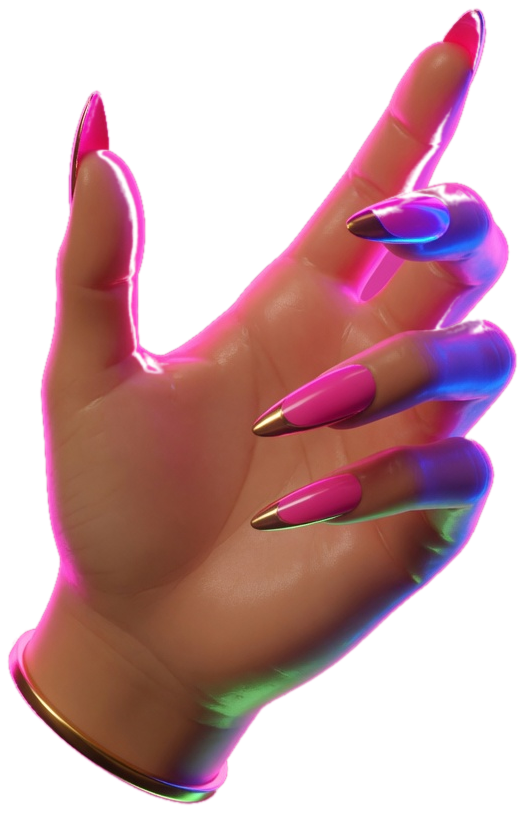
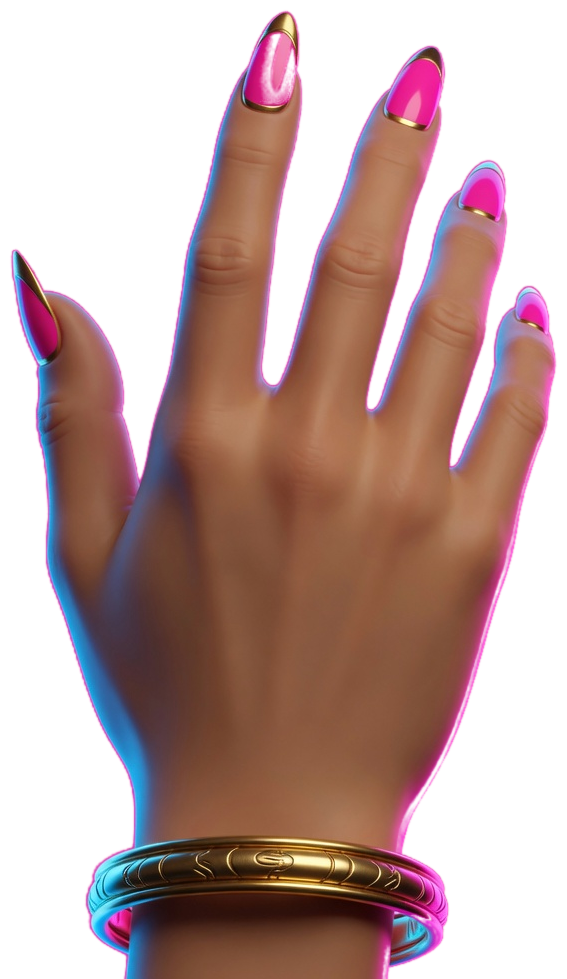
fix: Stage Tips hands from the back, with a grab
Back-of-hand sprites, 30 percent smaller, wrist pivot, gold bangle
at the joint. A brief grab pose shows a folded bill on a catch.

diff --git a/stage-tips/game.js b/stage-tips/game.js
@@ -112,6 +112,8 @@
       burst(hit.x, hit.y, '#ff4d6d', 14);
       return;
     }
+    var side = reachSide || 'right';
+    floaters[side].grabUntil = performance.now() + 90;
     var pitch = 520 + Math.min(hit.combo, 8) * 48 + (hit.id === '100' ? 180 : 0);
     tone(pitch, 0.09, 'triangle', 0.06);
     burst(hit.x, hit.y, hit.id === '100' ? '#ff2d95' : '#ffc857', hit.id === '100' ? 18 : 8);
@@ -268,16 +270,20 @@
   }
 
   var frameDt = 0.016;
+  var reachSide = 'right';
   var handImg = new Image();
+  var grabImg = new Image();
   var forearmImg = new Image();
   var spritesReady = 0;
   var floaters = {
-    left: { x: 0, y: 0, ex: 0, ey: 0, init: false },
-    right: { x: 0, y: 0, ex: 0, ey: 0, init: false }
+    left: { x: 0, y: 0, ex: 0, ey: 0, init: false, grabUntil: 0 },
+    right: { x: 0, y: 0, ex: 0, ey: 0, init: false, grabUntil: 0 }
   };
   handImg.onload = function () { spritesReady += 1; };
+  grabImg.onload = function () { spritesReady += 1; };
   forearmImg.onload = function () { spritesReady += 1; };
   handImg.src = 'hand.png';
+  grabImg.src = 'hand-grab.png';
   forearmImg.src = 'forearm.png';
 
   function stepFloater(f, tx, ty, dt) {
@@ -318,20 +324,26 @@
     var fw;
     var hw;
     var hh;
-    if (spritesReady < 2) return;
+    var sprite;
+    var wristFrac;
+    var inset;
+    if (spritesReady < 3) return;
     dx = f.ex - f.x;
     dy = f.ey - f.y;
     ang = Math.atan2(dy, dx);
     len = Math.max(80, Math.hypot(dx, dy));
-    fw = Math.max(46, len * 0.34);
+    fw = Math.max(42, len * 0.32);
+    sprite = (f.grabUntil && performance.now() < f.grabUntil) ? grabImg : handImg;
+    wristFrac = sprite === grabImg ? 0.86 : 0.88;
+    hw = Math.max(76, cssW * 0.091);
+    hh = hw * (sprite.height / sprite.width);
+    inset = Math.max(8, fw * 0.22);
     ctx.save();
     ctx.translate(f.x, f.y);
     ctx.rotate(ang - Math.PI / 2);
-    ctx.drawImage(forearmImg, -fw / 2, -28, fw, len + 28);
-    hw = Math.max(108, cssW * 0.13);
-    hh = hw * (handImg.height / handImg.width);
+    ctx.drawImage(forearmImg, -fw / 2, -inset, fw, len + inset);
     ctx.scale(mirror ? -1 : 1, 1);
-    ctx.drawImage(handImg, -hw / 2, -hh + hw * 0.22, hw, hh);
+    ctx.drawImage(sprite, -hw / 2, -hh * wristFrac, hw, hh);
     ctx.restore();
   }
 
@@ -353,6 +365,7 @@
         rightTarget.x = arm.x;
         rightTarget.y = arm.y;
       }
+      reachSide = useLeft ? 'left' : 'right';
     }
     stepFloater(floaters.left, leftTarget.x, leftTarget.y, frameDt);
     stepFloater(floaters.right, rightTarget.x, rightTarget.y, frameDt);
